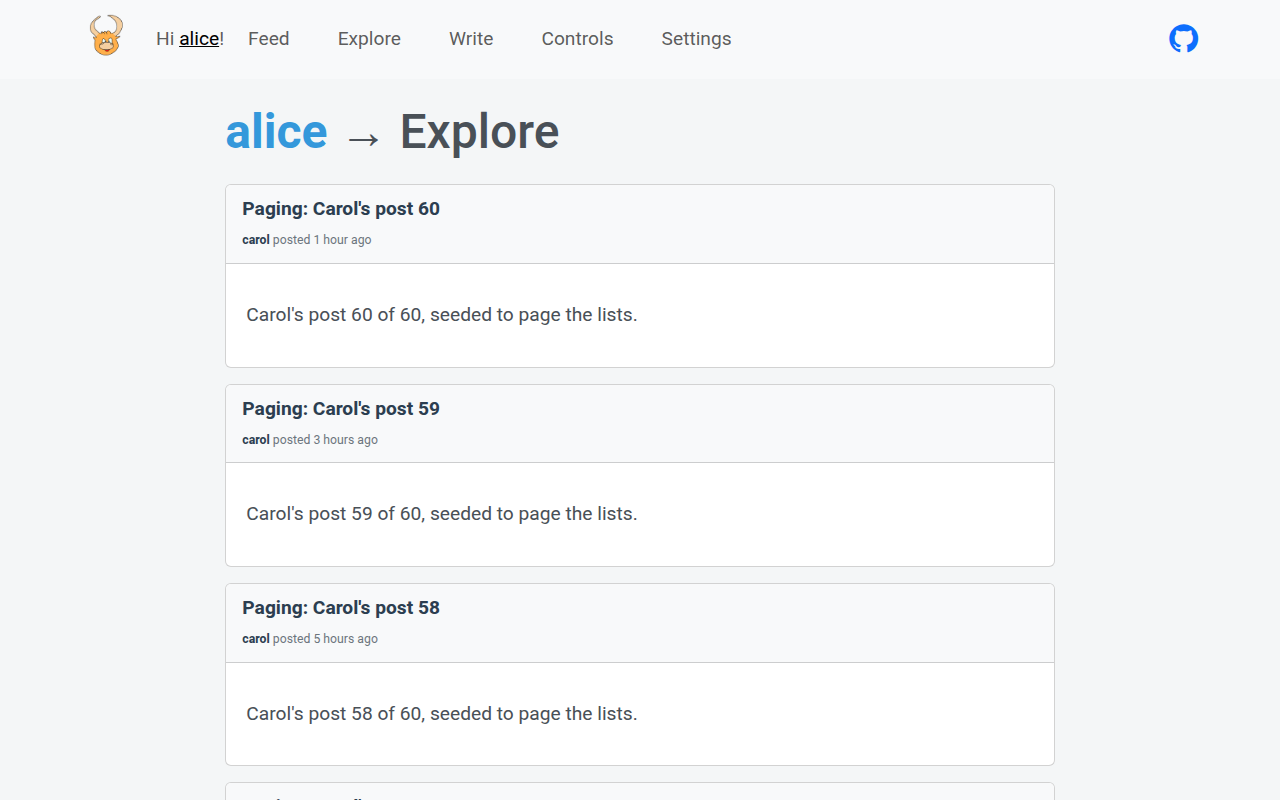
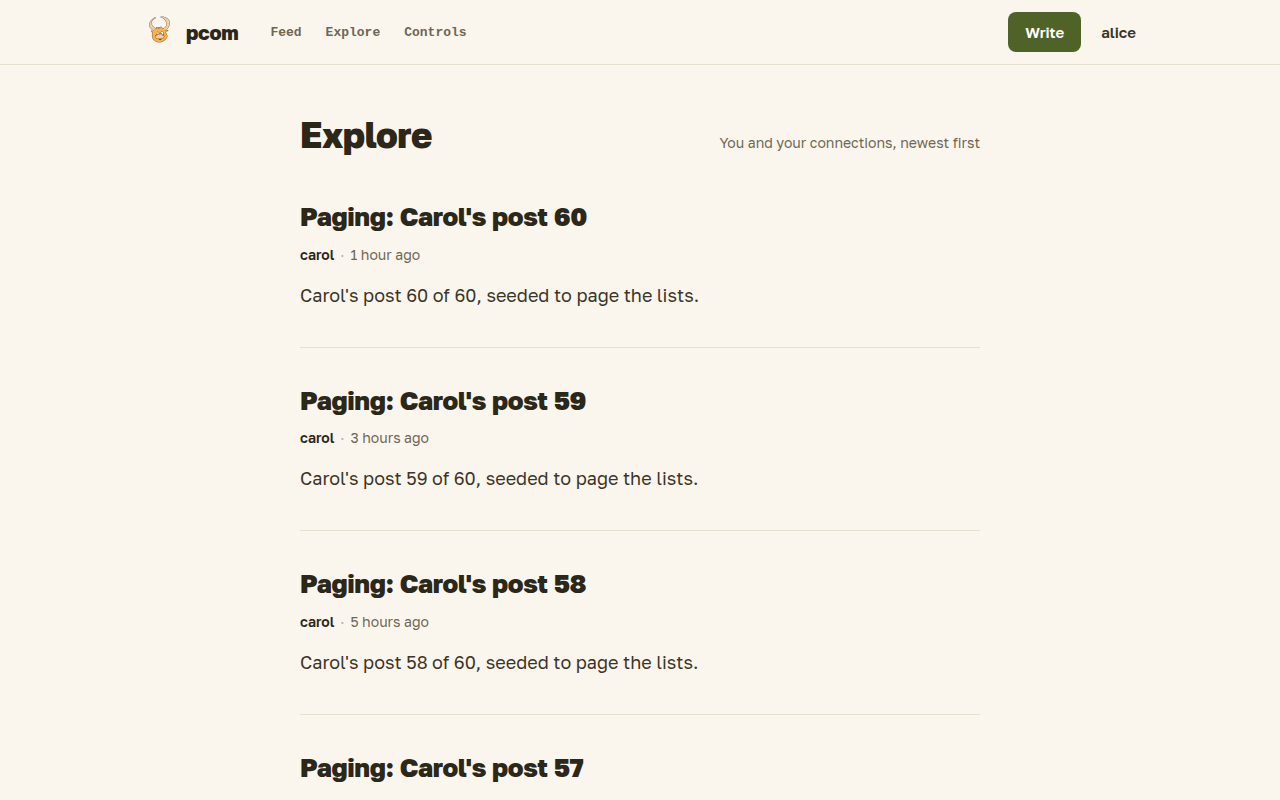
docs(f8): guide, screenshots and frontend skill describe the new design
T7 of F8. Screenshots are regenerated; the settings guide lists the us-*
user CSS hooks as the stable contract; the comments and writing guides use
the new control names; the frontend-htmx skill's Bootstrap and dark-mode
sections become "Design system" (tokens, components, item actions, form
results, fonts and the weight budget).

Claude-Session: https://claude.ai/code/session_016KmDB7QgiC1MeboSqkwKhQ

diff --git a/.claude/skills/frontend-htmx/SKILL.md b/.claude/skills/frontend-htmx/SKILL.md
@@ -1,6 +1,6 @@
 ---
 name: frontend-htmx
-description: Conventions for pcom's frontend - Go HTML templates, htmx (hx-boost, json-enc, response headers), Stimulus controllers including the generic action controller, CSRF, Bootstrap dark-mode SCSS, the renderHumanTime helper, and checking a change with the browser test suite (make test-ui). Use before changing or adding anything under cmd/web/client/ (html, js, scss) or a handler that returns htmx responses.
+description: Conventions for pcom's frontend - Go HTML templates, htmx (hx-boost, json-enc, response headers), Stimulus controllers including the generic action controller, CSRF, the design system (tokens, components, dark mode), the renderHumanTime helper, and checking a change with the browser test suite (make test-ui). Use before changing or adding anything under cmd/web/client/ (html, js, scss) or a handler that returns htmx responses.
 ---
 
 # Frontend (templates, JS, styles)
@@ -11,7 +11,7 @@ description: Conventions for pcom's frontend - Go HTML templates, htmx (hx-boost
 - **htmx** - AJAX requests and page transitions
 - **Stimulus.js** - JavaScript controllers
 - **Go Templates** - Server-side HTML rendering
-- **Bootstrap** - CSS framework
+- **SCSS design system** - pcom's own tokens and components (no CSS framework; see "Design system")
 
 ### htmx Configuration
 Located in `cmd/web/client/js/index.js`:
@@ -94,24 +94,33 @@ nonce shows up without a dedicated test. A test that provokes an error on purpos
 Handlers behind htmx endpoints are thin (see the layering note in `AGENTS.md`): they call a service and set
 the response headers. Don't put queries into a handler to feed a template.
 
-## Dark Mode Styling
+## Design system
 
-### Architecture
-Located in `cmd/web/client/scss/_dark-mode.scss`:
-- Uses Bootstrap 5.3+ color modes with `data-bs-theme="dark"` and `prefers-color-scheme` media query
-- All styles defined in `@mixin dark-mode-styles` for reusability
+Source is `cmd/web/client/scss/`; `index.scss` imports the partials. There is no Bootstrap and no icon font.
 
-### CSS Variable Override Pattern
-**Override Bootstrap component variables by scoping them within component selectors:**
-```scss
-.list-group {
-  --bs-list-group-bg: #2d2d2d;
-  --bs-list-group-border-color: #404040;
-  --bs-list-group-color: var(--text-color);
-}
-```
-
-**Do NOT define ad-hoc colors directly on elements** - always use Bootstrap's CSS variables to ensure proper inheritance and theming.
+- **Tokens** live in `_tokens.scss`: colors, spacing, shape and type. A new rule reads a token, never a literal
+  color. Light (paper) is the default; the warm dark theme redefines the same tokens under
+  `prefers-color-scheme: dark` and under `data-theme="dark"`. Dark mode is only a token override, so a rule
+  that uses tokens needs no dark variant.
+- **Type**: Golos Text, self-hosted (`@fontsource/golos-text`), weights 400 (text), 600 (labels, buttons) and
+  800 (titles) only, Latin and Cyrillic subsets only. Navigation and actions use the system monospace stack.
+  Don't add a weight or a subset: the `@font-face` list in `_tokens.scss` and the `rel="preload"` links in
+  `header.html` (400 and 800, Latin and Cyrillic) change together.
+- **Components** are in `_components.scss`: `.btn` with `.btn-primary`, `.btn-secondary`, `.btn-danger`;
+  `.field`; `.meta`; `.acts`; `.item`; `.box`; `.status`; `.nav`; `.toast`; the editor toolbar. Reuse them
+  before adding a rule.
+- **Item actions**: items (posts, comments, feed items) are not boxed. One `.acts` row of text actions sits
+  under each item (comments, reply, edit, share, delete); don't add buttons elsewhere on an item.
+- **Form results**: a form saves in place. Its result (`Saved` / `Not saved`) shows in a `.status` next to
+  the form's button and field errors show under the field. A form result is never a toast; a toast is only
+  for an action without a form.
+- **Area styles** live in their own partial: `_posts`, `_settings`, `_editor`, `_auth`, `_controls`,
+  `_syntax`. Shared pieces go to `_components.scss`, element defaults to `_base.scss`.
+- **User style hooks**: the `us-*` classes in templates are the contract for users' own CSS (listed in
+  `docs/guide/settings.md`). Keep them on their elements; other classes may change freely.
+- **Guards**: `TestTemplatesAndControllersUseNoBootstrapClasses` and `TestTemplatesKeepUserStyleHooks`
+  (`pkg/web/app`) and `TestFirstVisitWeight` (`e2e/browser`: per page CSS 25 KB, fonts 70 KB, JS 50 KB
+  gzipped, on the production build that `make test-ui` makes).
 
 ## Date/Time Rendering
 

diff --git a/docs/guide/writing.md b/docs/guide/writing.md
@@ -6,13 +6,13 @@ You write posts in markdown, save them as drafts, preview them and publish when 
 
 ## The editor
 
-Open Write in the top bar. A post has an optional subject, an optional URL it is about, and a body in markdown. The toolbar above the body inserts bold and italic text, quotes, lists, code blocks and links. Three buttons are specific to pcom: a cut that hides the rest of the post from the feed, a spoiler block that hides text until it is opened, and a gallery that groups images.
+Open Write in the top bar. A post has an optional subject, an optional URL it is about, and a body in markdown. The toolbar at the top of the editor box inserts bold and italic text, quotes, lists, code blocks and links. Three buttons are specific to pcom: a cut that hides the rest of the post from the feed, a spoiler block that hides text until it is opened, and a gallery that groups images.
 
 The editor saves about two seconds after you stop typing and shows when it last did. On a published post these edits go live without pressing Save. A post you have not published stays a draft; your drafts are listed on the Controls page, where you can delete them. If a connection prompted you, the editor shows their question and your post is linked to it.
 
 ## Preview
 
-The page icon in the toolbar opens the post as readers will see it, in a new tab. It appears once the post has been saved for the first time.
+The status next to the Draft badge shows when the draft was autosaved. The page icon in the toolbar opens the post as readers will see it, in a new tab. It appears once the post has been saved for the first time.
 
 ## Visibility
 
@@ -24,7 +24,7 @@ Publishing makes the post visible according to its visibility and emails your di
 
 ## Images
 
-The camera button uploads one or more images and puts them into the post. Images can also be sent through the [API](api.md).
+The upload images button uploads one or more images and puts them into the post. Images can also be sent through the [API](api.md).
 
 ## Share links
 

diff --git a/docs/guide/comments.md b/docs/guide/comments.md
@@ -6,13 +6,13 @@ You can comment on posts of your direct connections and on your own posts, and r
 
 ## Commenting
 
-On the post itself, click the comment count ("No Comments yet" or "N comments") to open the comment form. The "Leave a comment" button on each comment replies to it, and replies are nested under the comment they answer. Comments are written in markdown, are between 3 and 6,000 characters long and can include images with the camera button.
+On the post itself, click the comment count ("No Comments yet" or "N comments") to open the comment form. The Reply action under each comment replies to it, and replies are nested under the comment they answer. Comments are written in markdown, are between 3 and 6,000 characters long and can include images with the camera button.
 
 Comments are open to you and your direct connections only. If you can see a post as a second-degree connection or as a stranger, you can read it but not its comments, and you can't leave one.
 
 ## Editing
 
-You can edit your own comments: press the Edit button on your comment on the post page, change the text and save. Only the comment's author can, and only while you are still connected to the post's author. An edited comment shows an "(edited ...)" marker with the time, also in the feed. Saving without changing the text does nothing.
+You can edit your own comments: press Edit in the action row under your comment on the post page, change the text and save. Only the comment's author can, and only while you are still connected to the post's author. An edited comment shows an "(edited ...)" marker with the time, also in the feed. Saving without changing the text does nothing.
 
 ## Notifications
 

diff --git a/docs/guide/settings.md b/docs/guide/settings.md
@@ -24,6 +24,28 @@ Write a short text about yourself, in markdown. It appears under an "About" head
 
 You can add your own CSS, which is applied to your journal, your single-post pages, and your own feed and Explore pages.
 
+The `us-*` classes are the stable contract for your CSS; every other class may change when pcom's design changes. Each hook marks one element:
+
+| Class | Marks |
+|---|---|
+| `us-user-home` | the whole page of a journal, a feed or Explore |
+| `us-user-header` | the page heading |
+| `us-profile-about` | the "About" text of a journal |
+| `us-feed-post` | one post in a list |
+| `us-feed-post-stats` | the row of actions under a post in a list |
+| `us-feed-comment` | one comment in a feed |
+| `us-feed-rss-item` | one item of an RSS feed in your feed |
+| `us-post-date` | the date of a post or item |
+| `us-load-more` | the "load more" control at the end of a list |
+| `us-single-post` | the whole page of a single post |
+| `us-post-header` | the title of a single post |
+| `us-post-body` | the text of a single post |
+| `us-public-link` | the "Public link on" line of a shared post |
+| `us-comment-stats` | the row of actions under a post, above its comments |
+| `us-comments-section` | the comments of a single post |
+| `us-single-comment` | one comment of a single post |
+| `us-comment-form` | the form for writing a comment |
+
 ## Import and export
 
 Export downloads all your posts with their images as a zip file; import reads such a file back, into the same or another account. Importing into the same account updates the posts you already own and skips images already uploaded under the same name; importing into another account creates new copies.

diff --git a/AGENTS.md b/AGENTS.md
@@ -1,13 +1,13 @@
 # Agent Context for PCOM Project
 
-Go (gin, sqlboiler, Postgres) server rendering Go templates, with htmx, Stimulus.js and Bootstrap on the
-client. This file is loaded into every session, so it holds only what every task needs. Area notes live next to
+Go (gin, sqlboiler, Postgres) server rendering Go templates, with htmx, Stimulus.js and pcom's own design
+system (SCSS tokens and components, no CSS framework) on the client. This file is loaded into every session, so it holds only what every task needs. Area notes live next to
 the code or in skills (`.claude/skills/<name>/SKILL.md`; agents without skill support read that file); read
 the one for the area you touch:
 
 | Area | Notes |
 |---|---|
-| Templates, JS, SCSS, htmx, action controller, dark mode, `renderHumanTime` | skill `frontend-htmx` |
+| Templates, JS, SCSS, design system and dark mode, htmx, action controller, `renderHumanTime` | skill `frontend-htmx` |
 | A model's fields, relationships, query helpers | skill `model-shape` |
 | A failing test or build | skill `test-failure` |
 | Running a modernization wave / finishing one | skills `wave-run` / `wave-close` |
